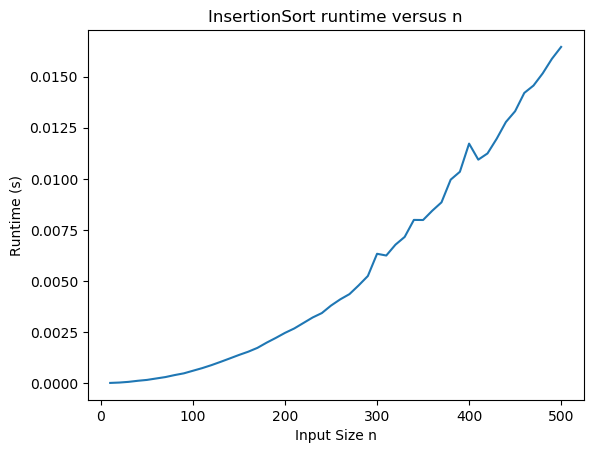
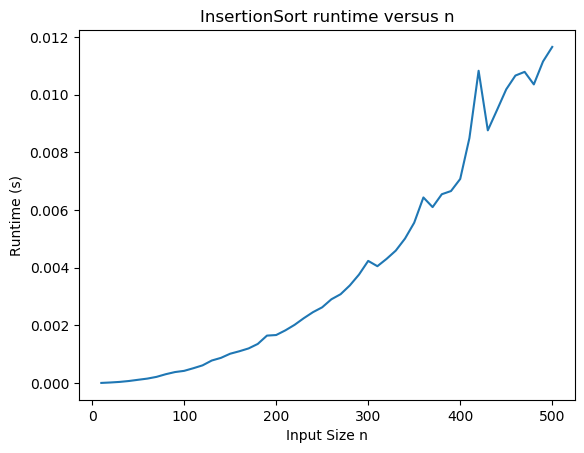
fixed insertion

diff --git a/project_01/10_code/project1.py b/project_01/10_code/project1.py
@@ -11,17 +11,19 @@ Date:
 """
 SelectionSort
 """
-
+import random
 def SelectionSort(listToSort):
     # Index of sorted
     length = len(listToSort)
     for i in range (length):
         min_index = i
+        # Find the min in the remaining unsorted list
         for j in range(i+1,length):
             if listToSort[j] < listToSort[min_index]:
                 min_index = j
                 pass 
             pass
+         # Swapping
         temp = listToSort[i]
         listToSort[i] = listToSort[min_index]
         listToSort[min_index] = temp
@@ -33,14 +35,15 @@ InsertionSort
 """
 def InsertionSort(listToSort):
     length = len(listToSort)
+    # The first element is in the sorted part
     for i in range(1,length):
-        while i-1>= 0 and listToSort[i] < listToSort[i-1]:
-            temp = listToSort[i]
-            listToSort[i] = listToSort[i-1]
-            listToSort[i-1] = temp
-            i-=1
-            pass
-        pass
+    	# Continuously bubble the ith element to sorted array
+        temp = listToSort[i]
+        while i-1 >= 0 and temp < listToSort[i-1]:
+          listToSort[i] = listToSort[i-1]
+          # looks left  
+          i-=1
+        listToSort[i] = temp	
     return listToSort
 """
 BubbleSort
@@ -48,9 +51,11 @@ BubbleSort
 def BubbleSort(listToSort):
     length = len(listToSort)
     swapped = False
+    # Traverse each element 
     for i in range (length):
-        j = 0
-        for j in range(length-1-j):
+    	# Continuously shrink the window size
+        for j in range(length-1-i):
+        	# Check if swap is needed
             if listToSort[j] > listToSort[j+1]:
                 temp = listToSort[j]
                 listToSort[j] = listToSort[j+1]
@@ -59,7 +64,7 @@ def BubbleSort(listToSort):
                 pass
             pass
         if not swapped:
-            return listToSort
+           	return listToSort
         pass  
     return listToSort
 """
@@ -72,10 +77,10 @@ def MergeSort(listToSort):
     else:
         split = length//2
         left = MergeSort(listToSort[:split])
-        #print(left)
         right = MergeSort(listToSort[split:])
-        #print(right)
+        # Allocate array to merge back from left and right
         merged = []
+        # Put elements into merge array untill either one is empty
         while left and right:
             num_left,num_right = left[0],right[0]
             if num_left < num_right:
@@ -87,6 +92,7 @@ def MergeSort(listToSort):
                 right.pop(0)
                 pass
             pass
+        # Put the remaining elements from left/right to merged. Append at the back
         while left:
             merged.append(left[0])
             left.pop(0)
@@ -95,6 +101,7 @@ def MergeSort(listToSort):
             merged.append(right[0])
             right.pop(0)
             pass
+     # Inplace change listToSort
     listToSort[:] = merged[:]
     return listToSort
 """
@@ -108,28 +115,37 @@ def QuickSort(listToSort,i=None,j=None):
     if length <= 1:
         return listToSort
     else:
-        # Last num is the pivot
+        # randomly pick a pivot and swap it with the last element 
+        # it's better then directly picking the last index as pivot for sorted input
+        pivot_index = random.randint(0,len(listToSort)-1)
+        temp = listToSort[pivot_index]
+        listToSort[pivot_index] = listToSort[-1]
+        listToSort[-1] = temp
         pivot = listToSort[-1]
-        #print(pivot)
-        #Partition
+        # left_ptr and right_ptr moves to meet
         left_index, right_index = 0,len(listToSort)-2
         while True:
+        	# While left is smaller than pivot, look left
             while listToSort[left_index] <= pivot and left_index < length -1:
                 left_index+=1
                 continue
+            # Whilte right is larger than pivot, look right
             while listToSort[right_index] >= pivot and right_index > 0:
                 right_index-=1
                 continue
+            # Left meet right, break
             if left_index >= right_index:
                 break
+            # swap 
             else:
                 temp = listToSort[left_index]
                 listToSort[left_index] = listToSort[right_index]
                 listToSort[right_index] = temp
-
+        # Put pivot in the middle
         temp = listToSort[left_index]
         listToSort[left_index] = pivot
         listToSort[-1] = temp
+        # Call quicksort on both parts
         listToSort[:]= QuickSort(listToSort[:left_index])+QuickSort(listToSort[left_index:])
     return listToSort
 """
@@ -164,4 +180,4 @@ if __name__ == "__main__":
     print('DEFAULT measureTime')
     print()
     measureTime()
-
+    measureTime(True)
